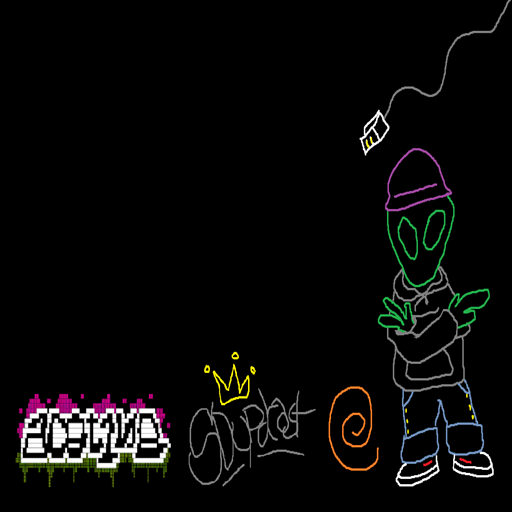
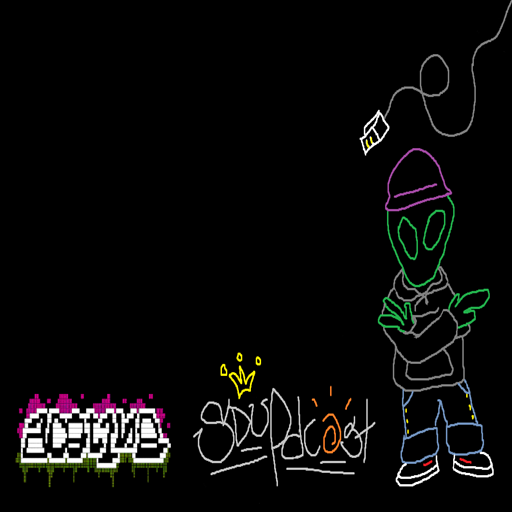
better pic

diff --git a/src/core/Logger.cpp b/src/core/Logger.cpp
@@ -115,7 +115,16 @@ void Logger::Log(const char* level, const char* fmt, va_list args)
 
     if (g_logFile >= 0)
     {
-        fs_write(g_logFile, fullBuf, strlen(fullBuf));
+        size_t len = strlen(fullBuf);
+        size_t written = 0;
+
+        while (written < len) {
+            ssize_t ret = fs_write(g_logFile, fullBuf + written, len - written);
+            if (ret <= 0) {
+                break;
+            }
+            written += ret;
+        }
     }
 }
 

diff --git a/src/core/App.cpp b/src/core/App.cpp
@@ -341,7 +341,7 @@ void App::DrawString(float x, float y, float z,
         }
 
         DrawChar(x, y, z, a, r, g, b, *str++, xs, ys);
-        x += 8 * xs;
+        x += 9 * xs;
     }
 }
 
@@ -359,7 +359,7 @@ void App::DrawFrame()
     pvr_list_begin(PVR_LIST_TR_POLY);
 
     DrawString(40,   // <-- top-left X
-               120,   // <-- top-left Y
+               160,   // <-- top-left Y
                3,
                1,1,1,1,
                m_currentMessage,

diff --git a/src/core/Network.cpp b/src/core/Network.cpp
@@ -312,7 +312,7 @@ if (sdBufUsed > 0) {
     fs_close(f);
     close(sock);
 
-    snprintf(msg, sizeof(msg), "Download complete (%d KB)", totalBytes / 1024);
+    snprintf(msg, sizeof(msg), "Download complete\n(%d KB)", totalBytes / 1024);
     if(cb) cb(msg);
     Logger::LogInfo("%s", msg);
 